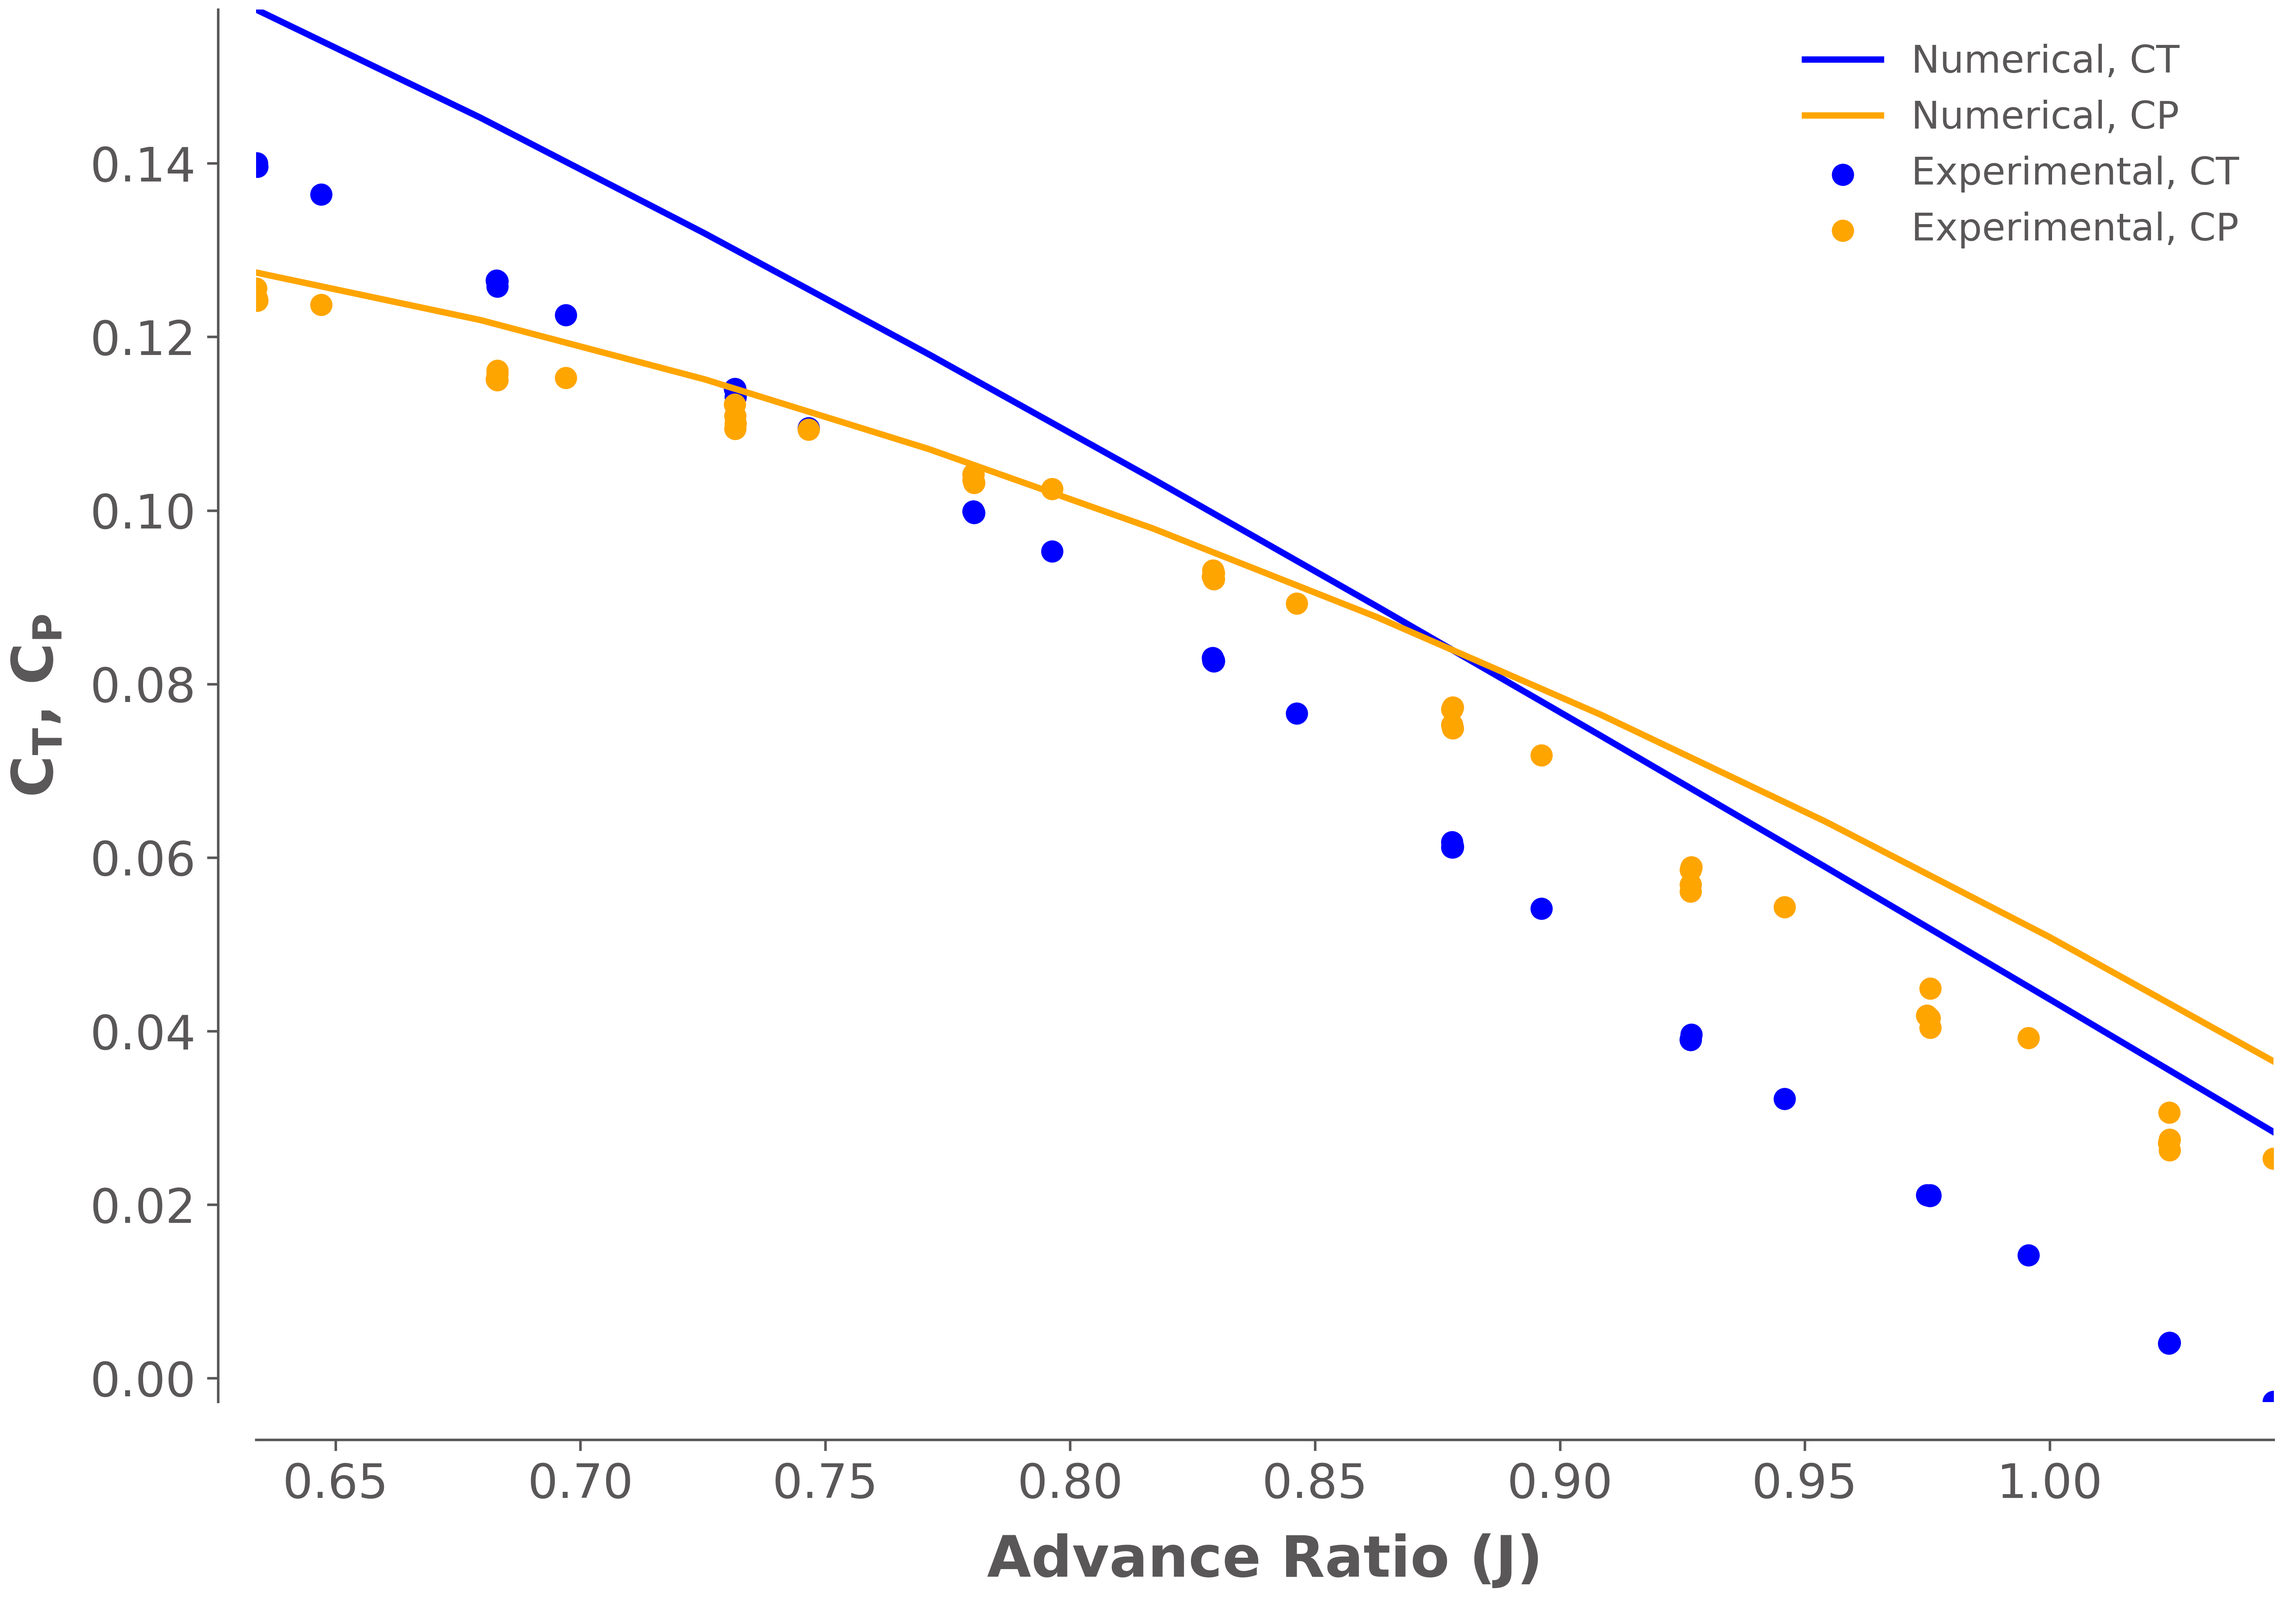
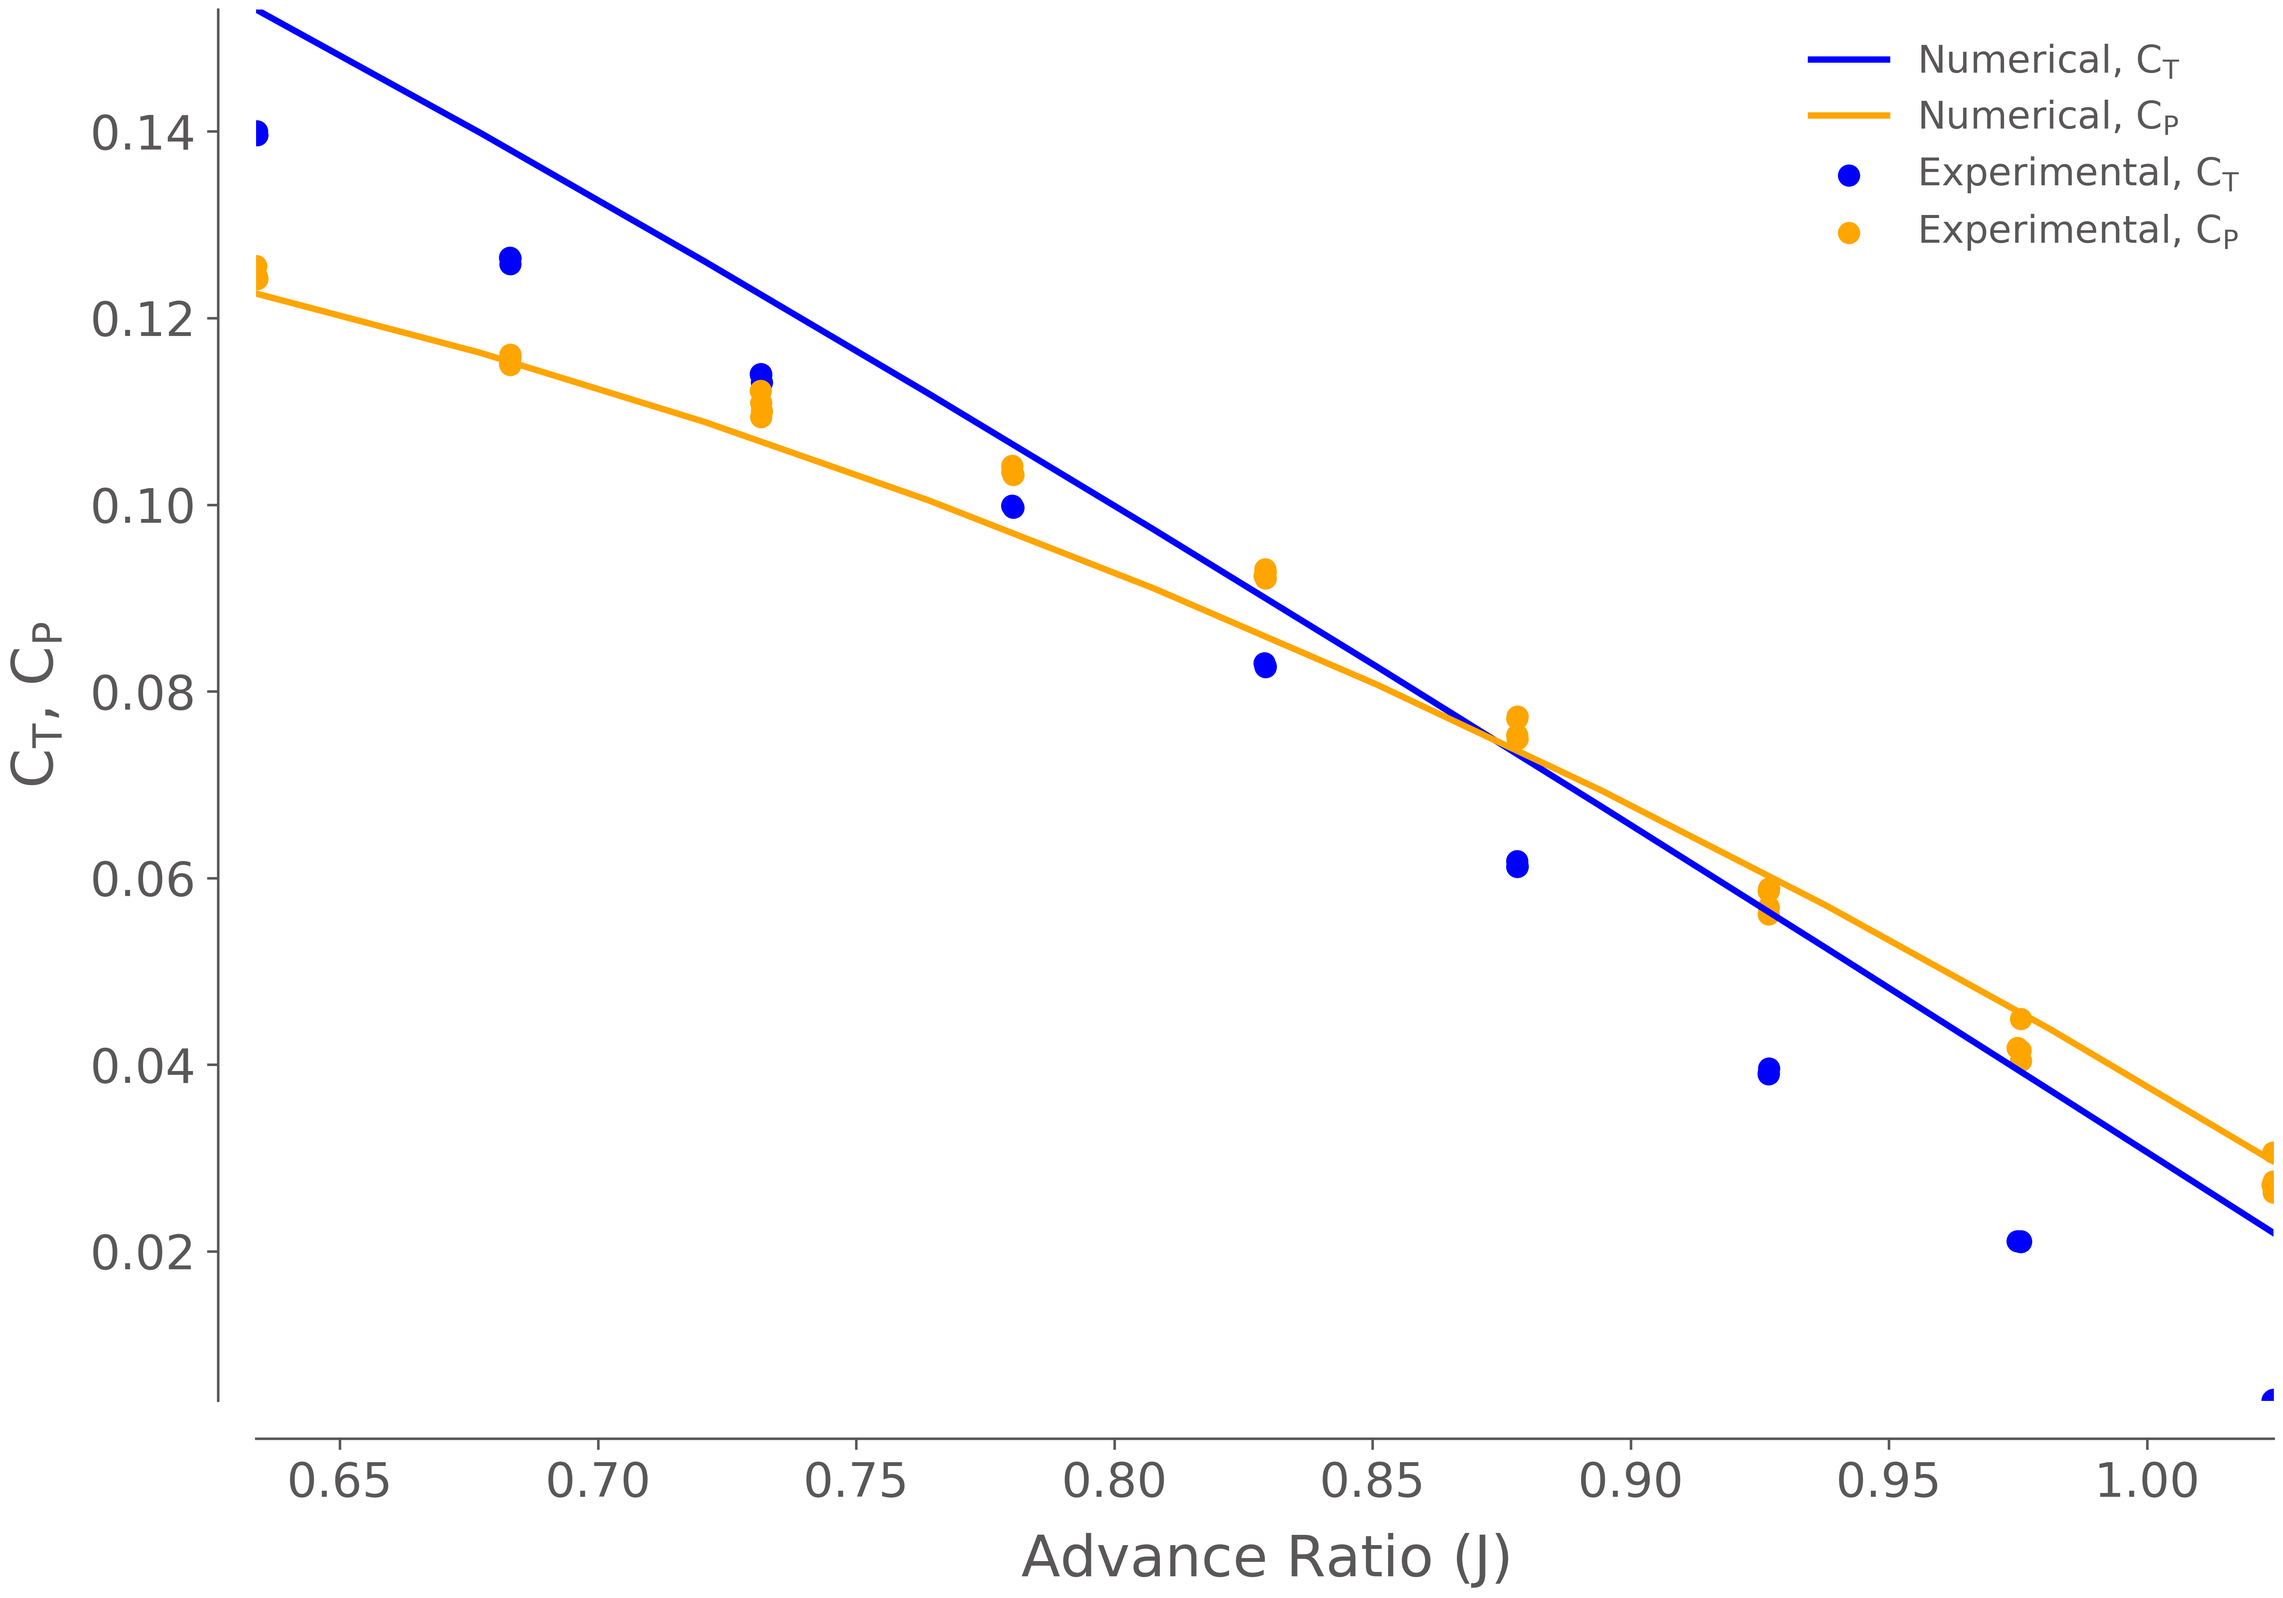
working prop validation file

diff --git a/examples/analysis/PROWIM_prop_validation.py b/examples/analysis/PROWIM_prop_validation.py
@@ -5,9 +5,7 @@ import json
 
 # --- Internal ---
 from src.base import ParamInfo, WingPropInfo, WingInfo, PropInfo, AirfoilInfo
-from src.postprocessing.utils import get_niceColors
 from src.integration.coupled_groups_analysis import PropAnalysis
-from examples.example_classes.PROWIM_classes import PROWIM_wingpropinfo
 
 # --- External ---
 import numpy as np
@@ -49,6 +47,26 @@ prop1 = PropInfo(label='Prop1',
                  nr_blades=4,
                  rot_rate=300.,
                  chord=np.array(chord, order='F'),
+                 twist=np.array(twist, order='F')-1.2,
+                 span=np.array(span, order='F'),
+                 airfoils=[AirfoilInfo(label=f'Foil_{index}',
+                                       Cl_alpha=Cl_alpha[index],
+                                       alpha_L0=alpha_L0[index],
+                                       alpha_0=alpha_0[index],
+                                       M=M[index])
+                           for index in range(spanwise_discretisation_propeller_BEM+1)],
+                 ref_point=np.array(ref_point),
+                 hub_orientation=np.array([[1.0, 0.0, 0.0],
+                                           [0.0, 1.0*np.cos(np.deg2rad(-0.2)),
+                                            1.0*np.sin(np.deg2rad(-0.2))],
+                                           [0.0, -1.0*np.sin(np.deg2rad(-0.2)), 1.0*np.cos(np.deg2rad(-0.2))]])
+                 )
+
+prop2 = PropInfo(label='Prop1',
+                 prop_location=0.332,
+                 nr_blades=4,
+                 rot_rate=300.,
+                 chord=np.array(chord, order='F'),
                  twist=np.array(twist, order='F'),
                  span=np.array(span, order='F'),
                  airfoils=[AirfoilInfo(label=f'Foil_{index}',
@@ -57,13 +75,11 @@ prop1 = PropInfo(label='Prop1',
                                        alpha_0=alpha_0[index],
                                        M=M[index])
                            for index in range(spanwise_discretisation_propeller_BEM+1)],
-                 ref_point=np.array([0.0, 0.0, 0.0]), # 0.0174195
-                 rotation_axis=np.array([-1., 0., 0.]),
+                 ref_point=ref_point,
                  hub_orientation=np.array([[1.0, 0.0, 0.0],
                                            [0.0, 1.0*np.cos(np.deg2rad(-0.2)),
                                             1.0*np.sin(np.deg2rad(-0.2))],
-                                           [0.0, -1.0*np.sin(np.deg2rad(-0.2)), 1.0*np.cos(np.deg2rad(-0.2))]]),
-                 local_refinement=3
+                                           [0.0, -1.0*np.sin(np.deg2rad(-0.2)), 1.0*np.cos(np.deg2rad(-0.2))]])
                  )
 
 parameters = ParamInfo(vinf=39.19,
@@ -76,42 +92,37 @@ parameters = ParamInfo(vinf=39.19,
 
 wing = WingInfo(label='PROWIM_wing',
                 span=wingspan,
-                thickness=np.ones(10)*0.001, # doesn't matter for this simulation
                 chord=np.ones(spanwise_discretisation_propeller_BEM,
                               order='F')*wing_chord,
                 twist=np.ones(spanwise_discretisation_propeller_BEM,
                               order='F')*wing_twist,
+                thickness=np.ones(spanwise_discretisation_propeller_BEM,
+                              order='F')*0.001,
                 empty_weight=0.,
                 CL0=0.283
                 )
 
 
 wingpropinfo = WingPropInfo(spanwise_discretisation_wing=60,
-                            spanwise_discretisation_propeller=31,
+                            spanwise_discretisation_propeller=51,
                             spanwise_discretisation_propeller_BEM=spanwise_discretisation_propeller_BEM,
-                            propeller=[prop1],
+                            propeller=[prop1, prop2],
                             wing=wing,
                             parameters=parameters
                             )
 
-for index in range(len(PROWIM_wingpropinfo.propeller)):
-    PROWIM_wingpropinfo.propeller[index].rot_rate = 644.82864419
-    PROWIM_wingpropinfo.propeller[index].twist = np.array([67.79378385, 71.83797648, 61.32955902, 62.9787903,  56.87134101, 58.16629045,
-                                                            56.66413092, 54.56196904, 52.76508122, 50.14207845, 48.77576388, 45.81754819,
-                                                            44.61299923, 42.01886426, 40.93763764, 38.52984867, 37.65342321, 35.1964771,
-                                                            33.97829724, 30.47284116],
-                                                                order='F'
-                                                        )
-    
 
-class PropAnalysis(om.Group):
+class PROWIMAnalysis(om.Group):
     def initialize(self):
         self.options.declare('WingPropInfo', default=WingPropInfo)
 
     def setup(self):
         self.add_subsystem('PropellerModel',
-                           subsys=PropAnalysis(WingPropInfo=PROWIM_wingpropinfo)
-                           )
+                           subsys=PropAnalysis(WingPropInfo=wingpropinfo))
+
+    def configure(self):
+        # Empty because we do analysis
+        ...
 
 
 if __name__ == '__main__':
@@ -123,10 +134,10 @@ if __name__ == '__main__':
                                 'CP=P/rho*n3*D5', 'eta=J*CT/CP'],
                        sep=',')
 
-    J_experimental = file['J=Vinf/nD']
-    CT_experimental = file['CT=T/rho*n2*D4']
-    CP_experimental = file['CP=P/rho*n3*D5']
-    eta_experimental = file['eta=J*CT/CP']
+    J_experimental = file['J=Vinf/nD'][:36]
+    CT_experimental = file['CT=T/rho*n2*D4'][:36]
+    CP_experimental = file['CP=P/rho*n3*D5'][:36]
+    eta_experimental = file['eta=J*CT/CP'][:36]
 
     # === Generate numerical data ===
     J_min = np.min(J_experimental)
@@ -143,7 +154,7 @@ if __name__ == '__main__':
         for index_prop in range(wingpropinfo.nr_props):
             wingpropinfo.propeller[index_prop].rot_rate = irot_rate
 
-        prob.model = PropAnalysis(WingPropInfo=wingpropinfo)
+        prob.model = PROWIMAnalysis(WingPropInfo=wingpropinfo)
         prob.setup()
         prob.run_model()
 
@@ -161,15 +172,15 @@ if __name__ == '__main__':
     plt.style.use(niceplots.get_style())
     _, ax = plt.subplots(figsize=(10, 7))
 
-    ax.plot(J_numerical, CT_numerical, label='Numerical, CT', color='b')
-    ax.plot(J_numerical, CP_numerical, label=f'Numerical, CP', color='orange')
+    ax.plot(J_numerical, CT_numerical, label=r'Numerical, $C_T$', color='b')
+    ax.plot(J_numerical, CP_numerical, label=r'Numerical, $C_P$', color='orange')
 
     ax.scatter(J_experimental, CT_experimental,
-               label=f'Experimental, CT', color='b')
+               label=r'Experimental, $C_T$', color='b')
     ax.scatter(J_experimental, CP_experimental,
-               label=f'Experimental, CP', color='orange')
+               label=r'Experimental, $C_P$', color='orange')
 
-    ax.set_xlabel("Advance Ratio (J)", fontweight='ultralight')
+    ax.set_xlabel(r"Advance Ratio ($J$)", fontweight='ultralight')
     ax.set_ylabel(r"$C_T$, $C_P$", fontweight='ultralight')
     ax.legend(fontsize='12')
 

diff --git a/examples/analysis/PROWIM_wingprop_validation.py b/examples/analysis/PROWIM_wingprop_validation.py
@@ -5,7 +5,7 @@ import json
 
 # --- Internal ---
 from src.base import ParamInfo, WingPropInfo, WingInfo, PropInfo, AirfoilInfo
-from src.integration.coupled_groups_analysis import WingSlipstreamPropOptimisation
+from src.integration.coupled_groups_analysis import WingSlipstreamPropAnalysis
 
 # --- External ---
 import numpy as np
@@ -25,7 +25,7 @@ with open(os.path.join(BASE_DIR, 'data', 'PROWIM.json'), 'r') as file:
 prop_radius = 0.1185
 ref_point = data['ref_point']
 span = data['span']
-twist = data['twist']
+twist = np.subtract(data['twist'], 1.2)
 chord = data['chord']
 
 alpha_0 = data['alpha_0']
@@ -86,6 +86,8 @@ wing = WingInfo(label='PROWIM_wing',
                               order='F')*wing_chord,
                 twist=np.ones(spanwise_discretisation_propeller_BEM,
                               order='F')*wing_twist,
+                thickness=np.ones(spanwise_discretisation_propeller_BEM,
+                              order='F')*0.001,
                 empty_weight=0.,
                 CL0 = 0.283
                 )
@@ -100,13 +102,13 @@ wingpropinfo = WingPropInfo(spanwise_discretisation_wing=60,
                             )
 
 
-class WingSlipstreamPropAnalysis(om.Group):
+class PROWIMValidation(om.Group):
     def initialize(self):
         self.options.declare('WingPropInfo', default=WingPropInfo)
 
     def setup(self):
         self.add_subsystem('PropellerSlipstreamWingModel',
-                           subsys=WingSlipstreamProp(WingPropInfo=wingpropinfo))
+                           subsys=WingSlipstreamPropAnalysis(WingPropInfo=wingpropinfo))
 
     def configure(self):
         # Empty because we do analysis
@@ -118,7 +120,7 @@ if __name__ == '__main__':
     CL_numerical = []
     J = np.array([0.796, 1.0, float('nan')])
     rot_rate = (wingpropinfo.parameters.vinf/(J*2.*prop_radius)) * 2.*np.pi # in rad/s
-    angles = np.arange(-8, 10, 1)
+    angles = np.arange(-8, 10+1, 1)
     
     prob = om.Problem()
 
@@ -145,7 +147,7 @@ if __name__ == '__main__':
             print(f'Angle of attack: {angle: ^10}')
             wingpropinfo.parameters.wing_aoa = angle
             
-            prob.model = WingSlipstreamPropAnalysis(WingPropInfo=wingpropinfo)
+            prob.model = PROWIMValidation(WingPropInfo=wingpropinfo)
             prob.setup()
             prob.run_model()
 
